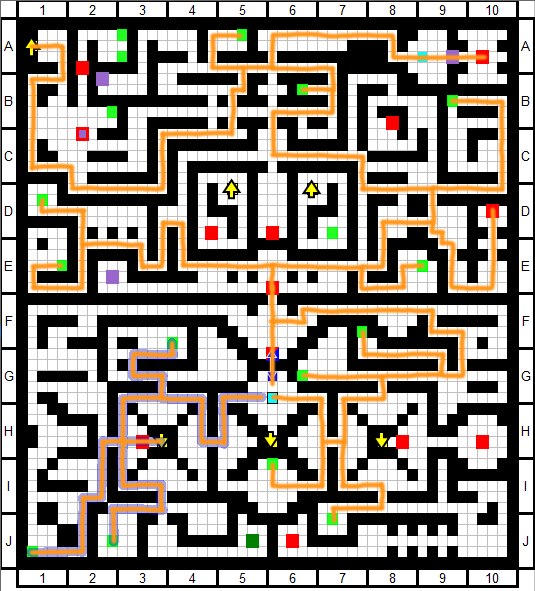
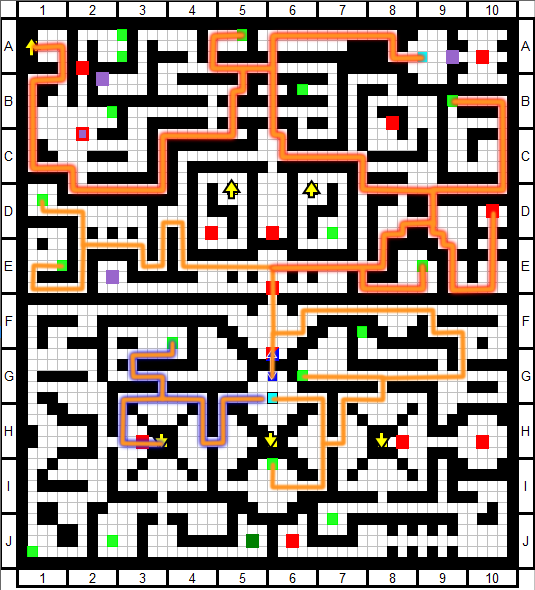
Removed 5 chests from 4F

diff --git a/item/chests.md b/item/chests.md
@@ -43,7 +43,7 @@ Any treasure located in floor A that can only be obtained after reaching floor B
 | Contents | AnM | AnM+ |
 | :---: | :---: | :---: |
 | Biggest Sword Ever<br>Purple Metallic Armor<br>Mana Flower<br>Symbol of Faith | O |
-| Money-Growing Tree<br>Midnight Oil Set<br>Items Discovery Weekly | X
+| Money-Growing Tree<br>Midnight Oil Set<br>Items Discovery Weekly | X |
 | Magic Gem x2<br>Energy Gem x2 | X |
 | Bludgeon | O |
 | Bulletproof Armor | O |
@@ -118,19 +118,19 @@ Any treasure located in floor A that can only be obtained after reaching floor B
 | Choice Scarf | X |
 | Getitup V | O |
 | Heater Muffler | O |
-| Kazu's Amulet | O |
+| Kazu's Amulet | X |
 | Light Staff | O |
 | LOVE Machine 3322 | O |
-| Magic Bird's Crest x4 | O |
+| Magic Bird's Crest x4 | X |
 | Midnight Oil Set | X |
-| Nitroglycerin | O |
-| Steadfast Ring | O |
-| Strange Mechanical Part x2 | O |
+| Nitroglycerin | X |
+| Steadfast Ring | X |
+| Strange Mechanical Part x2 | X |
 | Sword of Singing Delusion | O |
 | Ultrafast Granite Keystone | O |
 | Violet Green Rupee | O |
-| Floor Total | 14 |
-| Combined Total | 55 |
+| Floor Total | 9 |
+| Combined Total | 50 |
 
 #### <a id="floor-5"></a>Floor 5
 
@@ -151,7 +151,7 @@ Tome of Insight - HP<br>Tome of Insight - MP<br>Tome of Insight - TP<br>Training
 | Water Cutting Sword | X |
 | Yamabiko Necklace | O |
 | Floor Total | 12 |
-| Combined Total | 67 |
+| Combined Total | 62 |
 
 #### <a id="floor-6"></a>Floor 6
 
@@ -173,7 +173,7 @@ Tome of Insight - HP<br>Tome of Insight - MP<br>Tome of Insight - TP<br>Training
 | Purple Dragon Crystal | O |
 | Stone of Awakening | O |
 | Floor Total | 14 |
-| Combined Total | 81 |
+| Combined Total | 76 |
 
 #### <a id="floor-7"></a>Floor 7
 
@@ -200,7 +200,7 @@ Tome of Insight - HP<br>Tome of Insight - MP<br>Tome of Insight - TP<br>Training
 | Symbol of Faith | O |
 | Treasure Chest Key | X |
 | Floor Total | 19 |
-| Combined Total | 100 |
+| Combined Total | 95 |
 
 #### <a id="floor-8"></a>Floor 8
 
@@ -230,7 +230,7 @@ Tome of Insight - HP<br>Tome of Insight - MP<br>Tome of Insight - TP<br>Training
 | Treasure Chest Key | O |
 | Ultrafast Granite Keystone | O |
 | Floor Total | 23 |
-| Combined Total | 123 |
+| Combined Total | 118 |
 
 #### <a id="floor-9"></a>Floor 9
 
@@ -255,7 +255,7 @@ Tome of Insight - HP<br>Tome of Insight - MP<br>Tome of Insight - TP<br>Training
 | Water Cutting Sword | O |
 | Youkai's Fire Blowgun x2 | O |
 | Floor Total | 18 |
-| Combined Total | 141 |
+| Combined Total | 136 |
 
 #### <a id="floor-10"></a>Floor 10
 
@@ -280,7 +280,7 @@ Tome of Insight - HP<br>Tome of Insight - MP<br>Tome of Insight - TP<br>Training
 | Tisiphone Edge | O |
 | Treasure Chest Key | O |
 | Floor Total | 16 |
-| Combined Total | 157 |
+| Combined Total | 152 |
 
 #### <a id="floor-11"></a>Floor 11
 
@@ -307,7 +307,7 @@ Tome of Insight - HP<br>Tome of Insight - MP<br>Tome of Insight - TP<br>Training
 | Treasure Chest Key | O |
 | Yggdrasil Dew | O |
 | Floor Total | 19 |
-| Combined Total | 176 |
+| Combined Total | 171 |
 
 #### <a id="floor-12"></a>Floor 12
 
@@ -333,7 +333,7 @@ Tome of Insight - HP<br>Tome of Insight - MP<br>Tome of Insight - TP<br>Training
 | Treasure Chest Key | O |
 | Wallbreaker Armband | O |
 | Floor Total | 18 |
-| Combined Total | 194 |
+| Combined Total | 189 |
 
 #### <a id="floor-13"></a>Floor 13
 
@@ -354,7 +354,7 @@ Tome of Insight - HP<br>Tome of Insight - MP<br>Tome of Insight - TP<br>Training
 | T-45d Power Armor | O |
 | Training Manual | O |
 | Floor Total | 14 |
-| Combined Total | 208 |
+| Combined Total | 203 |
 
 #### <a id="floor-14"></a>Floor 14
 
@@ -380,7 +380,7 @@ Tome of Insight - HP<br>Tome of Insight - MP<br>Tome of Insight - TP<br>Training
 | Wallbreaker Armband | O |
 | Wisdom Gem | O |
 | Floor Total | 19 |
-| Combined Total | 227 |
+| Combined Total | 222 |
 
 #### <a id="floor-15"></a>Floor 15
 
@@ -414,7 +414,7 @@ Tome of Insight - HP<br>Tome of Insight - MP<br>Tome of Insight - TP<br>Training
 | Ultrafast Granite | O |
 | Youkai Medal Shattering Axe | O |
 | Floor Total | 22 |
-| Combined Total | 249 |
+| Combined Total | 244 |
 
 #### <a id="floor-16"></a>Floor 16
 
@@ -440,7 +440,7 @@ Tome of Insight - HP<br>Tome of Insight - MP<br>Tome of Insight - TP<br>Training
 | Treasure Chest Key | O |
 | Wash Basin Set | O |
 | Floor Total | 18 |
-| Combined Total | 267 |
+| Combined Total | 262 |
 
 #### <a id="floor-17"></a>Floor 17
 
@@ -463,7 +463,7 @@ Tome of Insight - HP<br>Tome of Insight - MP<br>Tome of Insight - TP<br>Training
 | War Mask of the Butcher | X |
 | Water Cutting Sword | X |
 | Floor Total | 6 |
-| Combined Total | 273 |
+| Combined Total | 268 |
 
 #### <a id="floor-18"></a>Floor 18
 
@@ -485,7 +485,7 @@ Tome of Insight - HP<br>Tome of Insight - MP<br>Tome of Insight - TP<br>Training
 | Transcendent's Proof | X |
 | Treasure Chest Key | X |
 | Floor Total | 4 |
-| Combined Total | 277 |
+| Combined Total | 272 |
 
 #### <a id="floor-19"></a>Floor 19
 
@@ -513,7 +513,7 @@ Tome of Insight - HP<br>Tome of Insight - MP<br>Tome of Insight - TP<br>Training
 | War Mask of the Butcher | X |
 | Youkai Medal Shattering Axe | X |
 | Floor Total | 5 |
-| Combined Total | 282 |
+| Combined Total | 277 |
 
 #### <a id="floor-20"></a>Floor 20
 
@@ -541,7 +541,7 @@ Tome of Insight - HP<br>Tome of Insight - MP<br>Tome of Insight - TP<br>Training
 | Wash Basin Set | O |
 | Wisdom Gem | X |
 | Floor Total | 6 |
-| Combined Total | 288 |
+| Combined Total | 283 |
 
 ## <a id="neglected-list"></a>Neglected Treasures List
 
@@ -579,7 +579,9 @@ Tome of Insight - HP<br>Tome of Insight - MP<br>Tome of Insight - TP<br>Training
 | Scouter x1 | 20F | Useless, out of way |
 | **Sub Equip** | - | - |
 | Poison Resistance Ring x1 | 2F | Useless, out of way |
-| Nitroglycerin x1 | 3F | Useless, out of way |
+| Nitroglycerin x2 | 3F/4F | Useless, out of way |
+| Steadfast Ring x1 | 4F | Useless, out of way |
+| Kazu's Amulet x1 | 4F | Useless, out of way |
 | Full Custom x1 | 18F | Useless, out of way |
 | Water Cutting Sword x2 | 5F<br>17F | Needs 10k money on hand<br>Useless |
 | Luster Candy x1 | 17F | Needs FOE kill, useless |
@@ -594,6 +596,8 @@ Tome of Insight - HP<br>Tome of Insight - MP<br>Tome of Insight - TP<br>Training
 | The Bee x1 | 20F | Useless, out of way |
 | Dark Magic Grimoire x1 | 17F | Useless, out of way |
 | **Others** | - | - |
+| Magic Bird's Crest x4 | 4F | Useless, out of way |
+| Strange Mechanical Part x2 | 4F | Useless, out of way |
 | Hero's Soul x2 | 15F | Needs FOE kill, useless |
 | Shining Dragon's Soul x2 | 19F | Useless, out of way |
 | Rainbow Light x2 | 19F | Useless, out of way |
